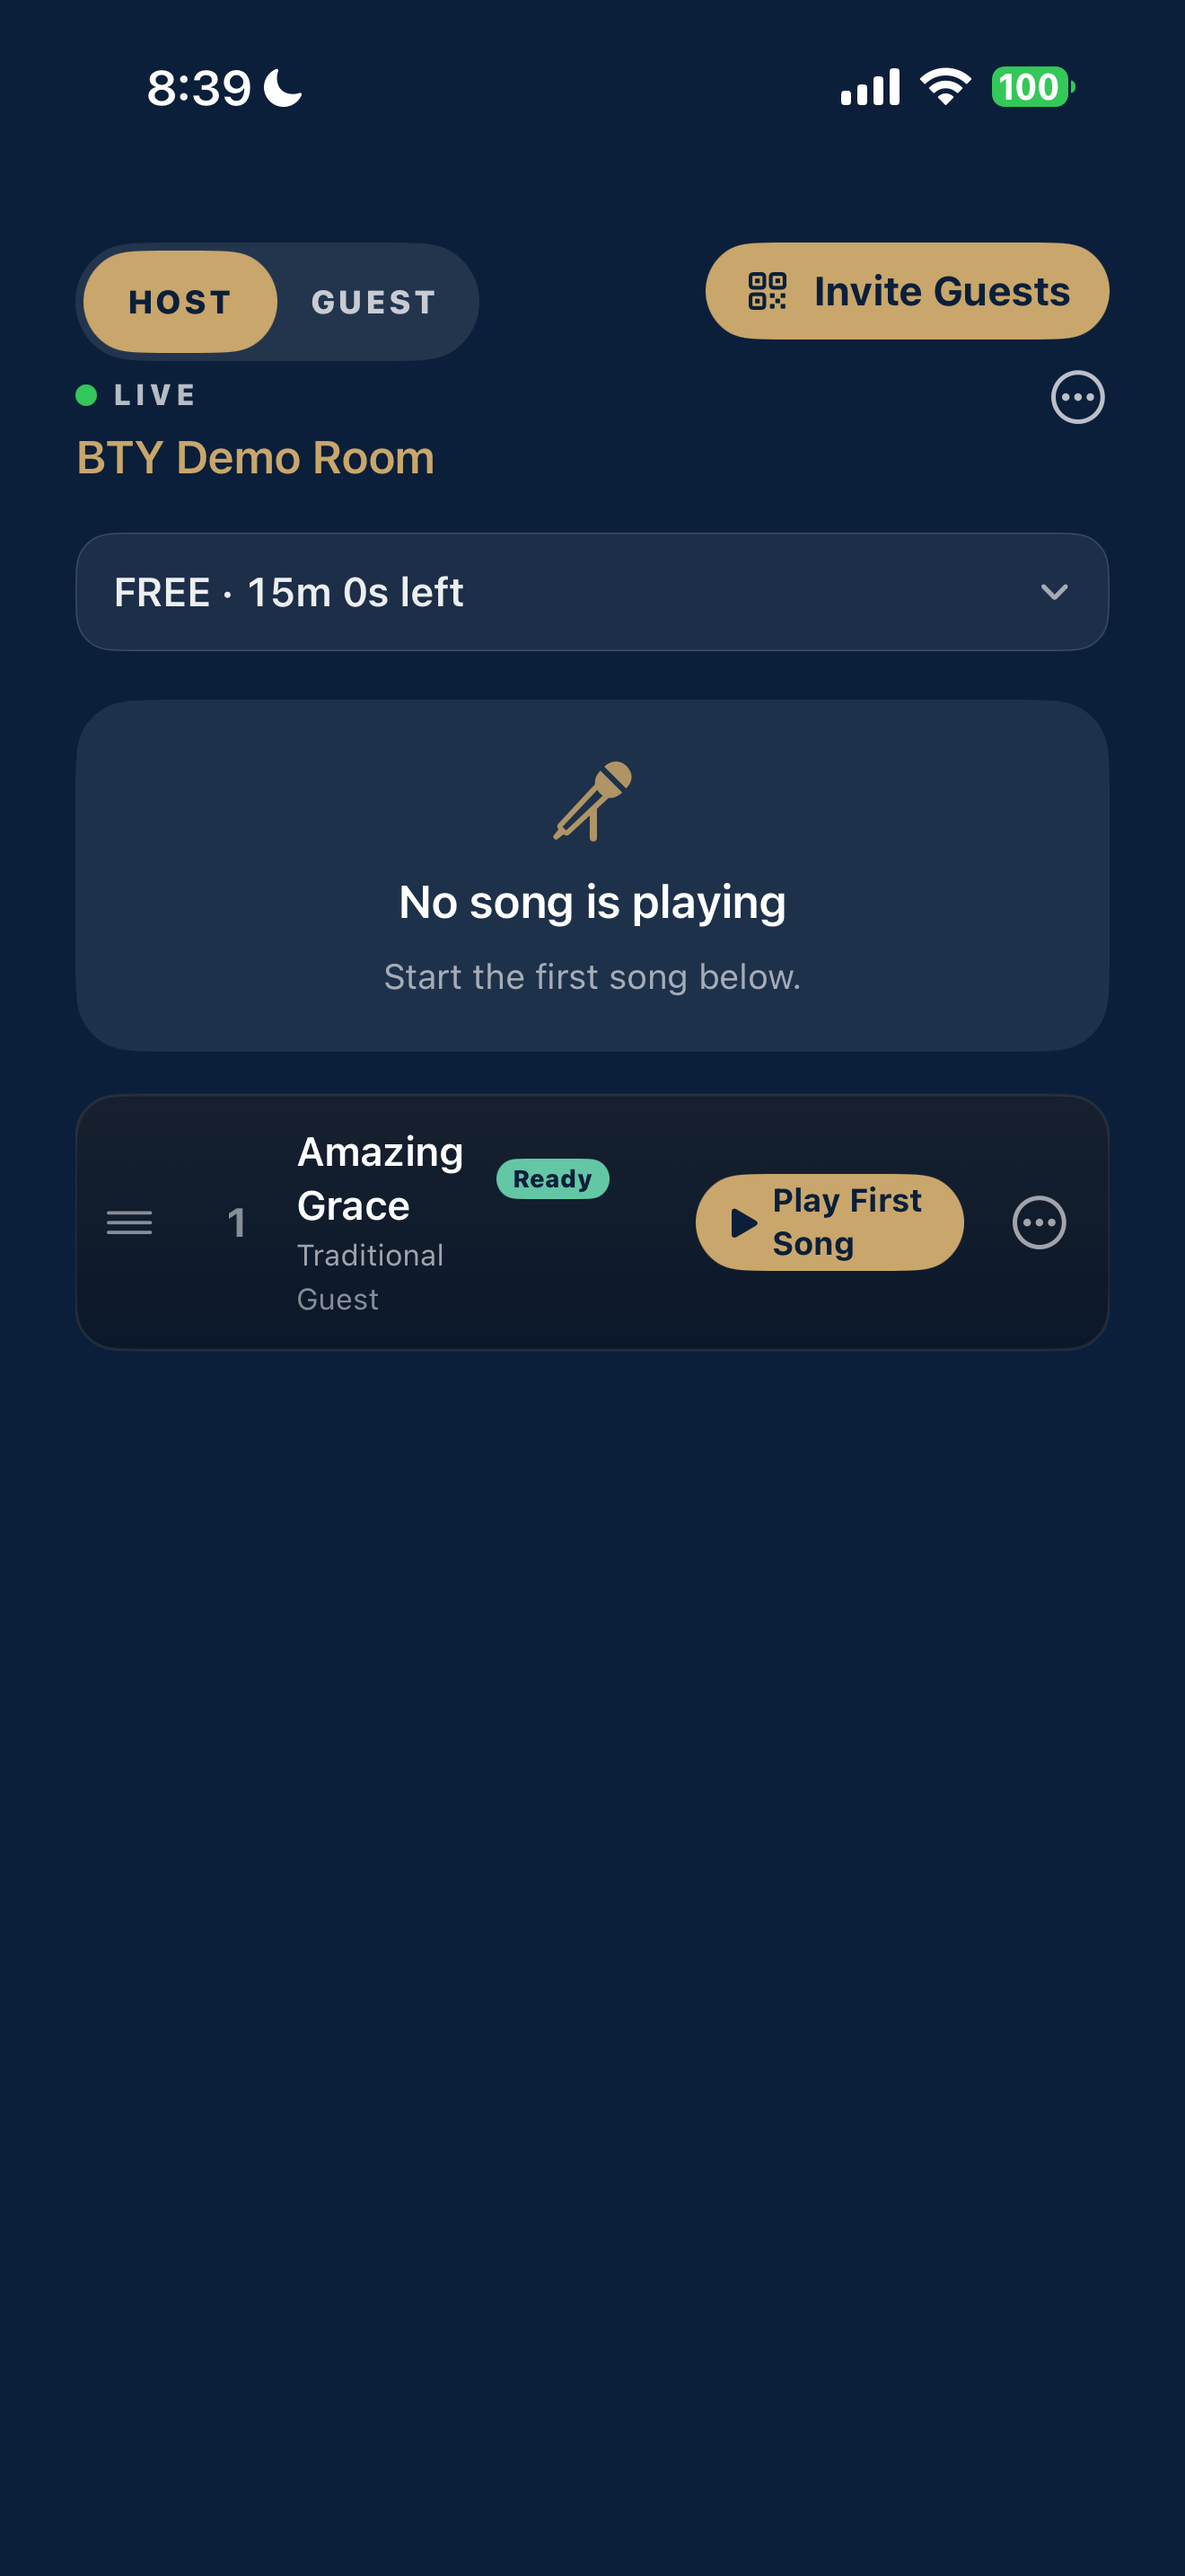
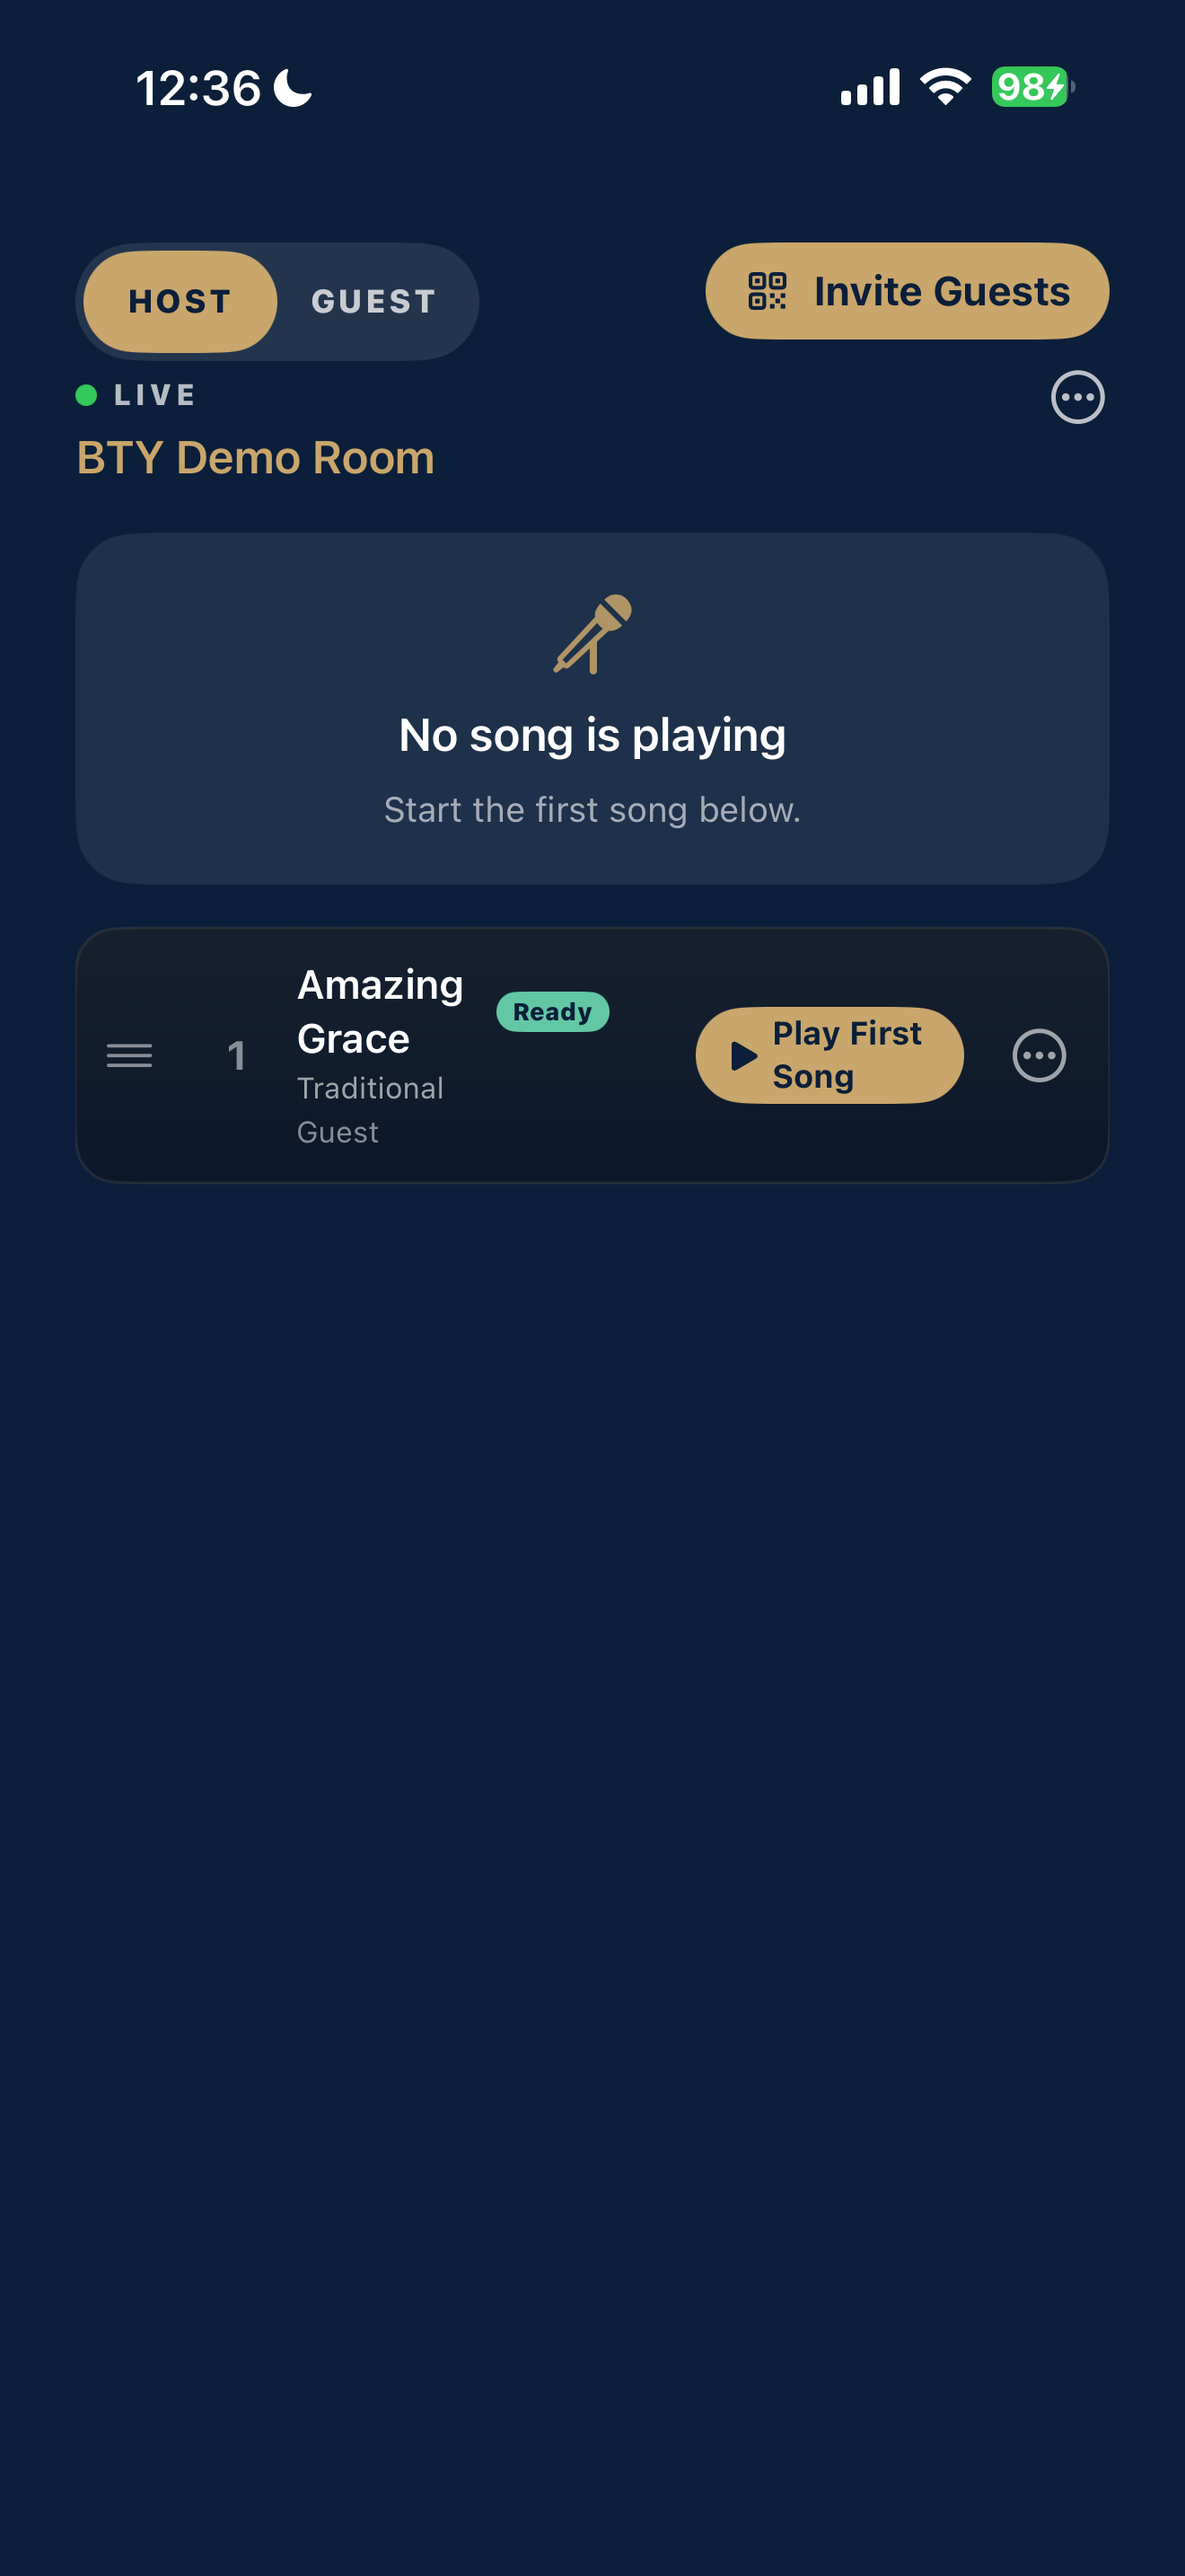
docs(karaoke): BUILD 26T-R1B-R6-R1A — final build-106 product-page screenshots
Three captures from the build whose UI actually passed the physical gate. All
1320x2868, PNG colortype 2 (RGB, no alpha), so ASC's alpha prohibition is
satisfied at source and NO normalization was required — unlike the IAP asset,
these arrived alpha-free. Each deliverable is BYTE-IDENTICAL to its source (same
SHA-256), which makes "unmodified" provable rather than asserted.

EXIF carries ImageDescription/Orientation/DateTime only — no GPS, no Make/Model.

Content inspected rather than assumed: no "◀ btyARENA" return indicator (the
defect that disqualified the first attempt), normal top safe-area on all three, no
DEBUG text, no private data beyond the review account's own "Guest", and none of
the retired FREE/PRO/Access Status/Buy-a-pass/not-on-sale/15-minute UI.

The mark appears on 02 and 03, above live YouTube API results, and is correctly
ABSENT from 01 — the host queue renders BTY's stored request snapshots, not live
API data. The J3 attribution census showing up in the artifacts themselves.

Build-103 deliverables and sources MOVED to historical/build-103/ rather than
overwritten: they predate the retirement and the mark so they cannot be reused,
but they are evidence of a previously approved state. The build-105 physical
captures were rejected as product-page assets and stay Founder device evidence.

Not uploaded. E1 remains unapplied, and the ASC order is E1 first, then metadata,
notes and screenshots.

diff --git a/bty-karaoke/release-assets/appstore/1.0/screenshots/PROVENANCE.md b/bty-karaoke/release-assets/appstore/1.0/screenshots/PROVENANCE.md
@@ -1,0 +1,69 @@
+# App Store product-page screenshots — FINAL, Release build 106
+
+**`PUBLIC_SCREENSHOTS = FINAL_RECAPTURED_NOT_UPLOADED` — 2026-08-15. Not uploaded to ASC.**
+
+Captured on the physical iPhone from **Release build 106**, the build whose UI passed the physical
+gate: FREE/PRO/store surface retired, `Waiting` rendering horizontally, and the official
+*developed with YouTube* mark legible above live search results.
+
+## The set
+
+| Deliverable | Source | Captured | Content |
+|---|---|---|---|
+| `01-host-dj-queue.png` | `IMG_2408.PNG` | 12:36 | Host tab · BTY Demo Room · Ready *Amazing Grace* · Play First Song |
+| `02-guest-song-search.png` | `IMG_2409.PNG` | 12:38 | Guest tab · LIVE · 0 songs waiting · Karaoke · **mark above results** |
+| `03-guest-turn-ready.png` | `IMG_2407.PNG` | 12:35 | Guest tab · Your turn is coming up · Ready · **mark above live results** |
+
+## Verification — every file
+
+```
+dimensions        1320 × 2868   native iPhone 17 Pro Max, an accepted 6.9" size
+PNG colortype     2 (RGB, NO alpha)  →  ASC's alpha prohibition satisfied at source
+normalization     NOT REQUIRED — unlike the earlier IAP asset, these arrived alpha-free
+deliverable       BYTE-IDENTICAL to its source (same SHA-256), so "unmodified" is provable
+                  rather than asserted
+EXIF              ImageDescription/Orientation/DateTime only — NO GPS IFD, no Make/Model/Software
+```
+
+```
+01-host-dj-queue.png      source == deliverable
[1 lines of base64/hex data omitted]
+02-guest-song-search.png  source == deliverable
[1 lines of base64/hex data omitted]
+03-guest-turn-ready.png   source == deliverable
[1 lines of base64/hex data omitted]
+```
+
+## Content checks — each image inspected, not assumed
+
+```
+prior-app return indicator   ABSENT — no "◀ btyARENA"; this is what disqualified the first attempt
+top safe-area layout         normal on all three; none scrolled under the status bar
+DEBUG / internal text        none
+retired quota / pass UI      none — no FREE 15m, no PRO, no Access Status, no Buy a pass,
+                             no product cards, no "not on sale", no 15-minute ceiling
+private data                 none — the only name shown is the review account's own "Guest"
+developed with YouTube       PRESENT on 02 and 03, above the live YouTube API results.
+                             ABSENT on 01, correctly: the host queue renders BTY's stored
+                             request snapshots, not live API data.
+```
+
+That last line is the census (`J3 §A`) showing up in the artifacts: the mark appears exactly where
+the API has a presence and nowhere else, and the screenshots are consistent with the code.
+
+## Historical assets preserved, not overwritten
+
+```
+historical/build-103/          the earlier approved set + its untouched sources
+historical/build-103/source/
+```
+
+Build-103 captures predate the retirement and the attribution mark, so they could not be reused —
+but they are evidence of an approved state and were moved, never deleted or overwritten in place.
+The build-105 physical captures were rejected as product-page assets (return indicator, scrolled
+safe area) and remain the Founder's own device evidence rather than repo artifacts.
+
+## Not uploaded
+
+Correct order remains: apply E1 to production under its own authorization, then the ASC metadata,
+notes and screenshots. Until E1 is applied the shipped binary and the server contract disagree.
